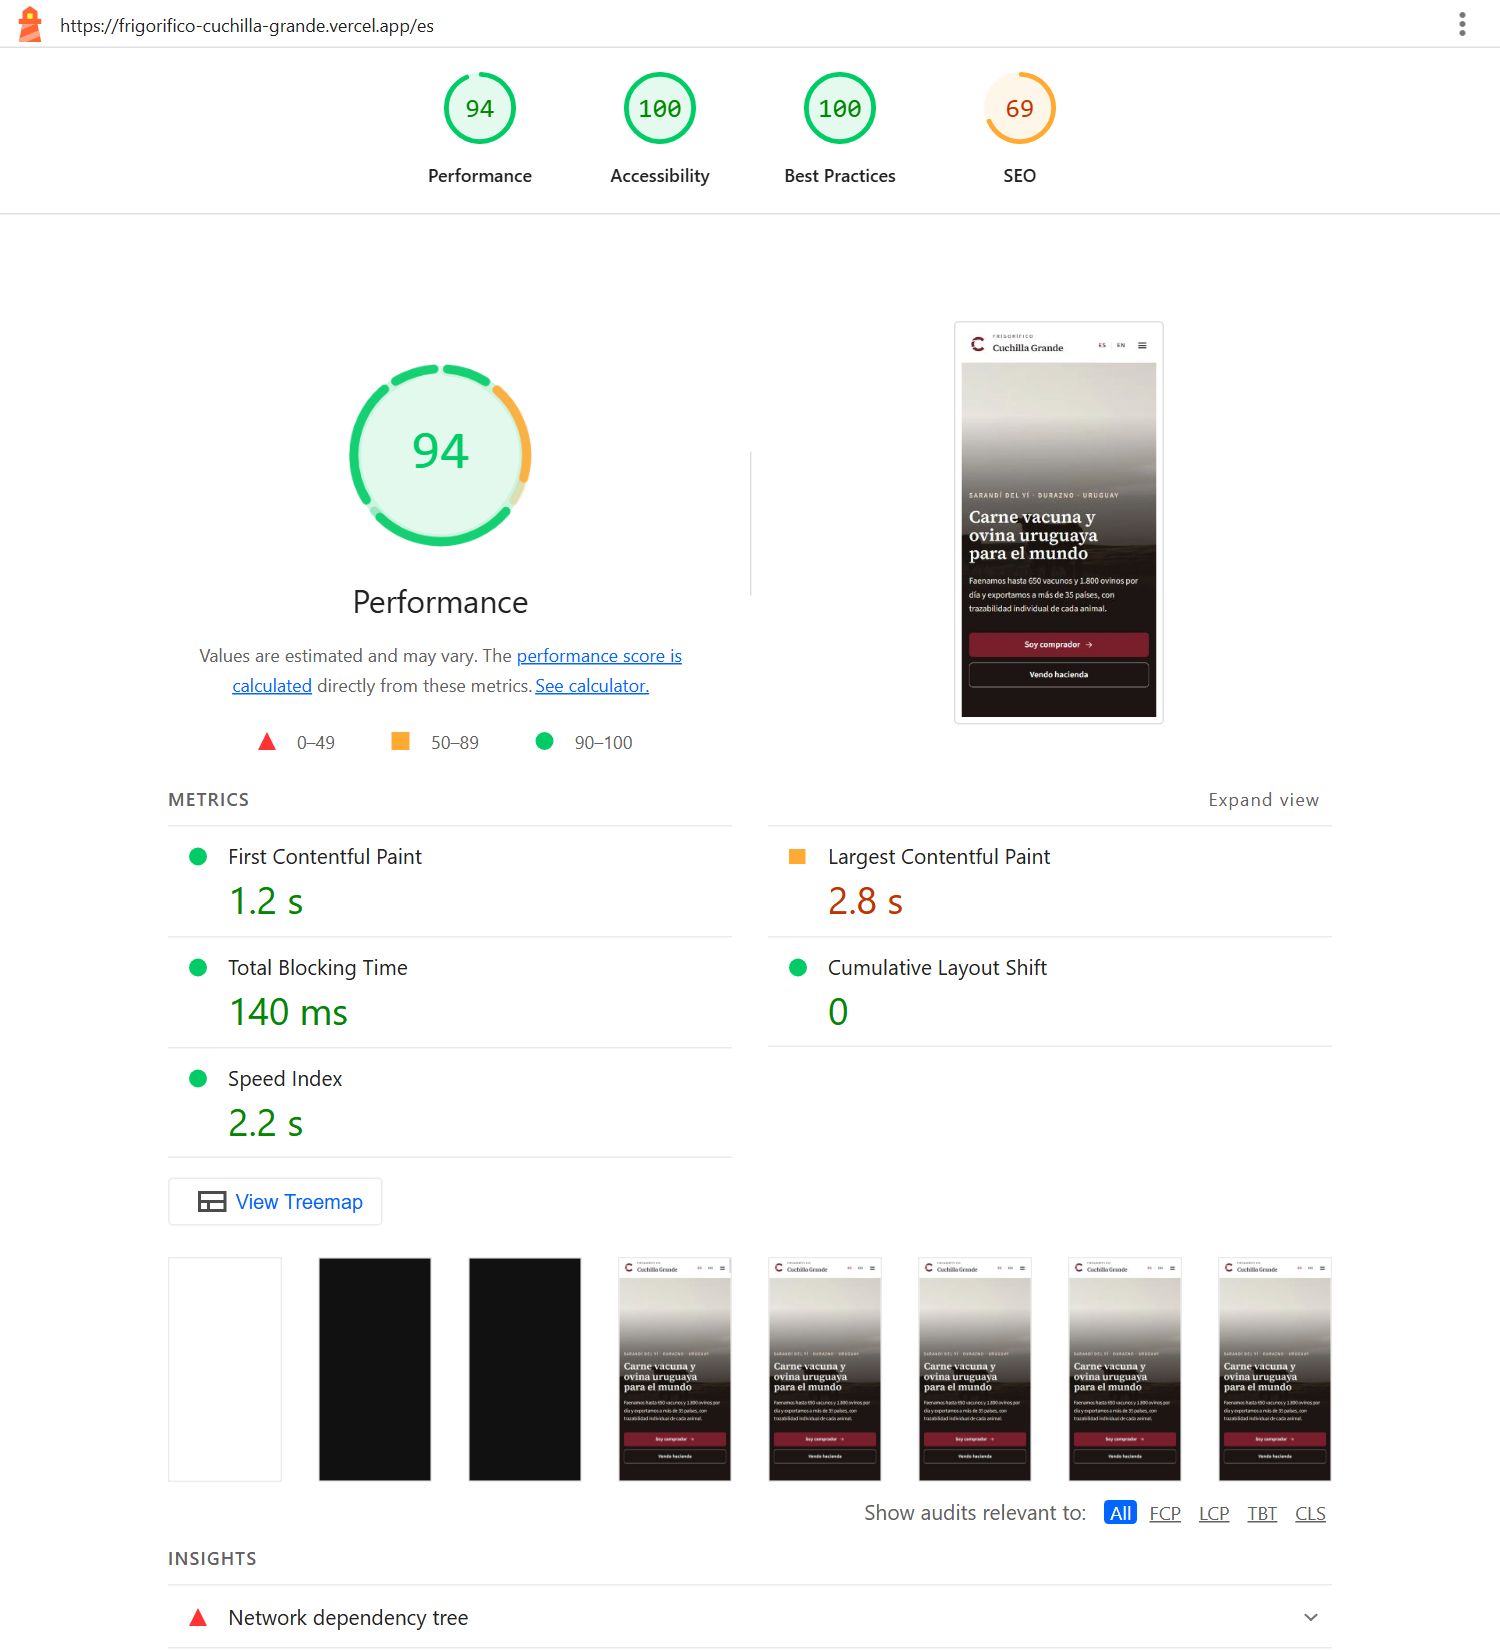
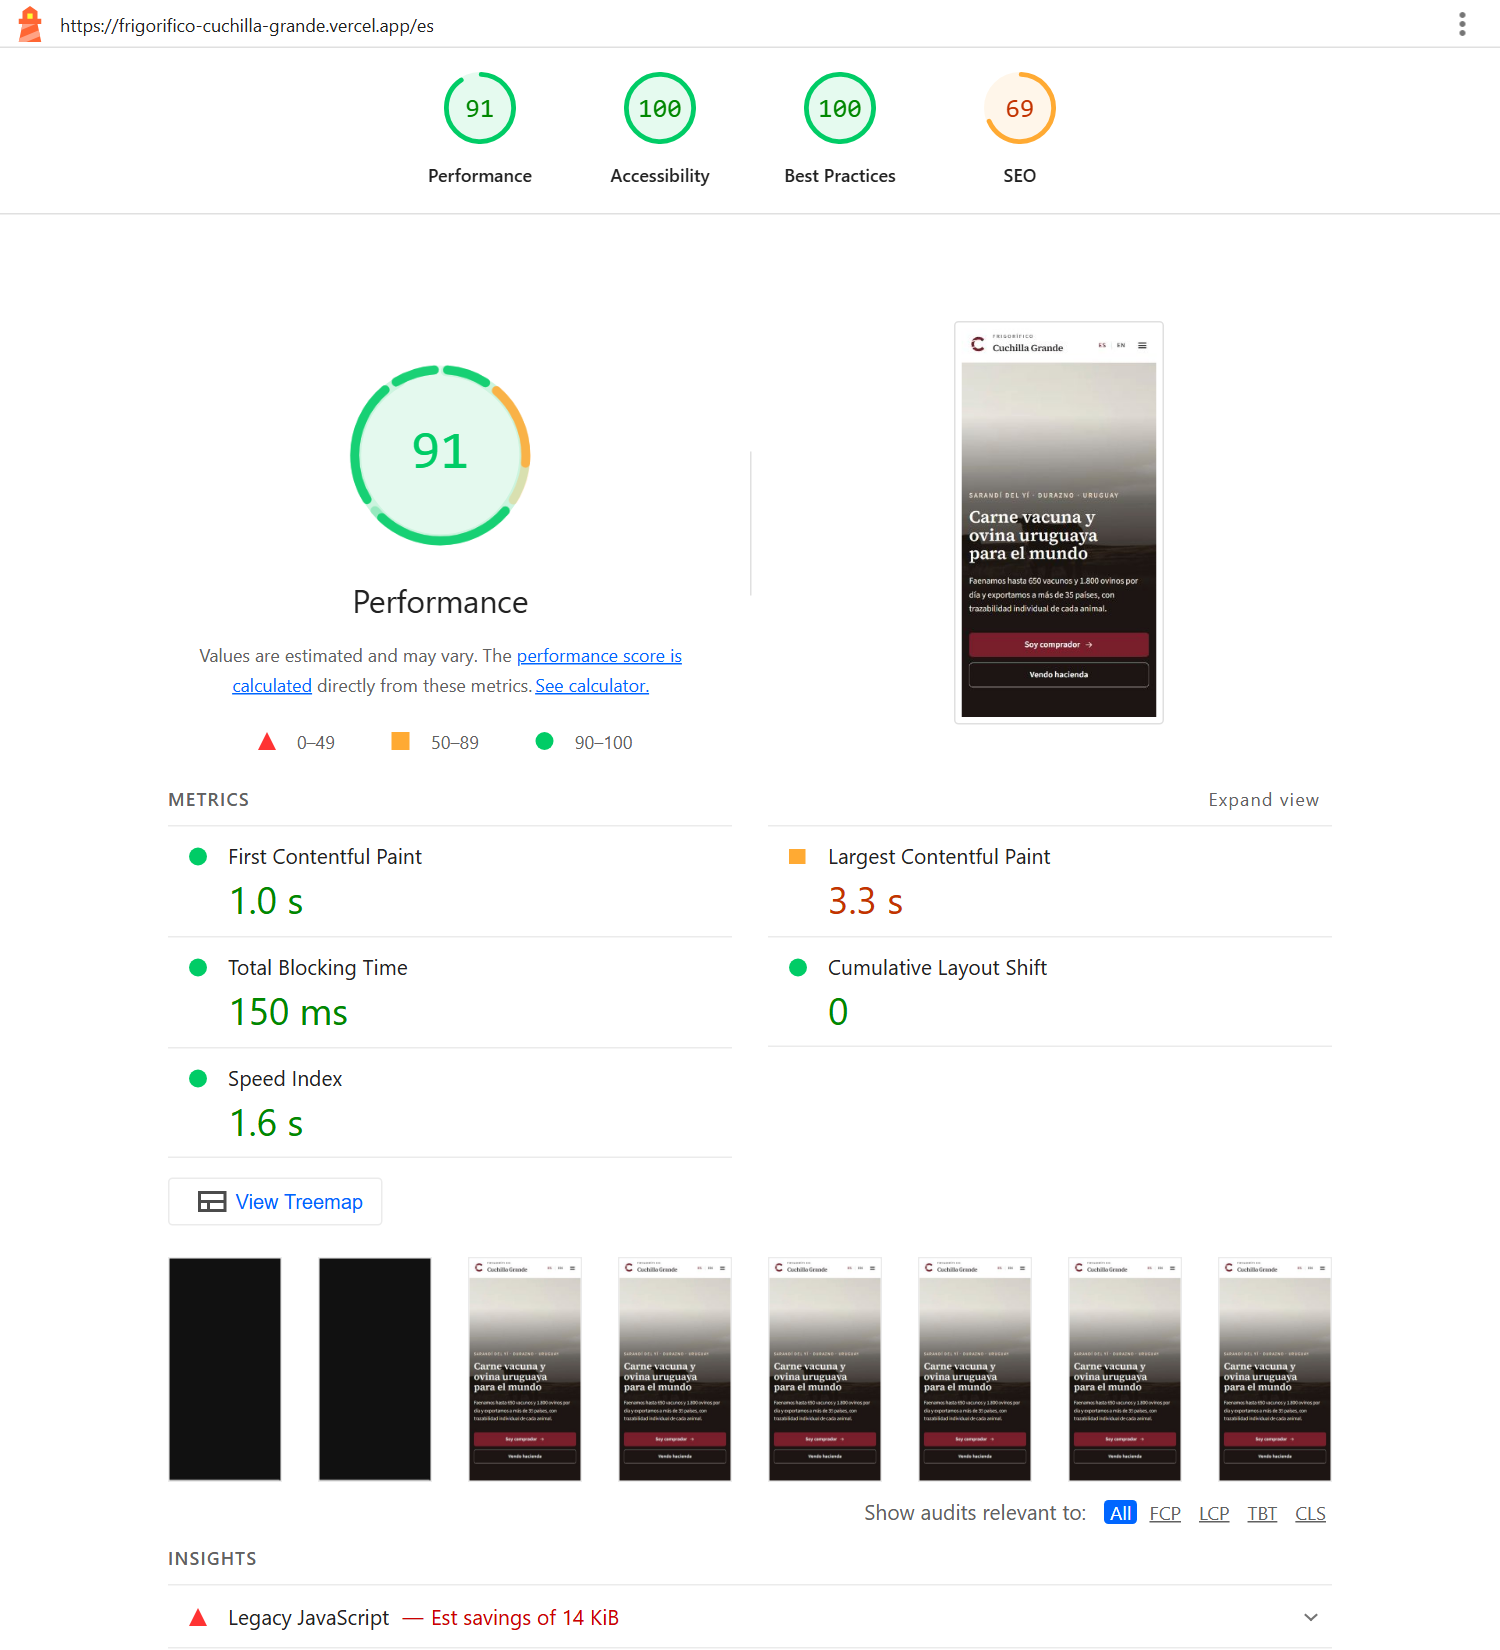
Cierre: métricas finales en QA.md y README, capturas de Lighthouse finales, imagen de social preview y carrera corregida en qa:contact
Claude-Session: https://claude.ai/code/session_01XiVCzhLQzkiLMyXHaZQP7F

diff --git a/scripts/qa-contact.ts b/scripts/qa-contact.ts
@@ -157,8 +157,11 @@ async function tabsAndUrl(browser: Browser, locale: L) {
 async function prefill(browser: Browser, locale: L) {
   const page = await browser.newPage({ viewport: { width: 1440, height: 900 } });
   await page.goto(`${base}${catalogPaths[locale]}`, { waitUntil: "load" });
-  await page.waitForSelector("[data-quote-link]");
-  const link = page.locator("[data-quote-link]").first();
+  // El HTML estático trae el catálogo vacuno; con ?species=lamb se espera a que lo reemplace el
+  // filtrado, si no se lee un link y se hace clic en otro.
+  const prefix = locale === "es" ? "beef_" : "lamb_";
+  await page.waitForSelector(`[data-quote-link^="${prefix}"]`);
+  const link = page.locator(`[data-quote-link^="${prefix}"]`).first();
   const cut = (await link.getAttribute("data-quote-link"))!;
   const href = await link.getAttribute("href");
   check(`${locale} catálogo: "Pedir cotización" → /contacto con id neutro`, href === `${paths[locale]}?tab=quote&cut=${cut}`, String(href));

diff --git a/docs/QA.md b/docs/QA.md
@@ -1,7 +1,7 @@
 # QA — Frigorífico Cuchilla Grande (fase 6)
 
 Informe de calidad del sitio de demostración: SEO técnico, accesibilidad, performance, seguridad,
-operación y QA cruzado ES/EN. Medido el **16 de octubre de 2026** contra producción
+operación y QA cruzado ES/EN. Medido el **16 de octubre de 2026** (fases 6 y 7) contra producción
 (https://frigorifico-cuchilla-grande.vercel.app) salvo donde se indica.
 
 Todo se puede repetir con los scripts del repo (ver `CLAUDE.md`, sección Comandos).
@@ -10,7 +10,7 @@ Todo se puede repetir con los scripts del repo (ver `CLAUDE.md`, sección Comand
 
 | Área | Resultado |
 |---|---|
-| Lighthouse móvil (12 mediciones) | Performance 93–98 · Accesibilidad 100 · Buenas prácticas 100 · SEO 66–69 por el noindex buscado; 100 en modo indexable |
+| Lighthouse móvil (12 mediciones) | Performance 91–98 · Accesibilidad 100 · Buenas prácticas 100 · SEO 66–69 por el noindex buscado; 100 en modo indexable |
 | axe (100 combinaciones de página/estado × idioma × ancho) | 0 violaciones serias o críticas, 0 moderadas o menores |
 | Recorrido por teclado | 62/62 verificaciones (formularios, diagrama, mapa, pestañas, menú, salto al contenido) |
 | SEO técnico (`check:seo`) | 106 URLs del sitemap · 212 imágenes OG/Twitter · JSON-LD válido en todas |
@@ -161,22 +161,23 @@ mínimo es 3:1.
 
 ### Lighthouse móvil — producción (noindex)
 
-Lighthouse 13.5 con la simulación móvil por defecto (Moto G Power, 4G lenta, CPU ×4).
+Lighthouse 13.5 con la simulación móvil por defecto (Moto G Power, 4G lenta, CPU ×4). Medición final del
+16 de octubre de 2026 (cierre de la fase 7), después de los ajustes de LCP.
 
 | Página | Idioma | Performance | Accesibilidad | Buenas prácticas | SEO | LCP | CLS | TBT | JS (KB) |
 |---|---|---|---|---|---|---|---|---|---|
-| Home | es | 94 | 100 | 100 | 69 | 2,8 s | 0 | 140 ms | 194 |
-| Home | en | 93 | 100 | 100 | 69 | 3,2 s | 0 | 90 ms | 194 |
-| Catálogo | es | 96 | 100 | 100 | 66 | 2,5 s | 0 | 120 ms | 187 |
-| Catálogo | en | 97 | 100 | 100 | 66 | 2,5 s | 0 | 100 ms | 187 |
-| Detalle de corte | es | 94 | 100 | 100 | 69 | 2,9 s | 0 | 130 ms | 186 |
-| Detalle de corte | en | 94 | 100 | 100 | 69 | 2,9 s | 0 | 120 ms | 187 |
-| Mercados | es | 95 | 100 | 100 | 66 | 2,7 s | 0 | 160 ms | 172 |
-| Mercados | en | 95 | 100 | 100 | 66 | 2,5 s | 0 | 160 ms | 172 |
-| Productores | es | 95 | 100 | 100 | 66 | 2,4 s | 0 | 190 ms | 178 |
-| Productores | en | 95 | 100 | 100 | 66 | 2,4 s | 0 | 200 ms | 178 |
-| Contacto | es | 98 | 100 | 100 | 66 | 2,3 s | 0 | 90 ms | 178 |
-| Contacto | en | 98 | 100 | 100 | 66 | 2,3 s | 0 | 80 ms | 178 |
+| Home | es | 91 | 100 | 100 | 69 | 3,3 s | 0 | 150 ms | 194 |
+| Home | en | 92 | 100 | 100 | 69 | 3,3 s | 0 | 110 ms | 194 |
+| Catálogo | es | 97 | 100 | 100 | 66 | 2,3 s | 0 | 120 ms | 187 |
+| Catálogo | en | 98 | 100 | 100 | 66 | 2,3 s | 0 | 100 ms | 187 |
+| Detalle de corte | es | 95 | 100 | 100 | 69 | 2,7 s | 0 | 140 ms | 187 |
+| Detalle de corte | en | 95 | 100 | 100 | 69 | 2,8 s | 0 | 140 ms | 187 |
+| Mercados | es | 96 | 100 | 100 | 66 | 2,6 s | 0 | 120 ms | 172 |
+| Mercados | en | 97 | 100 | 100 | 66 | 2,4 s | 0 | 110 ms | 172 |
+| Productores | es | 97 | 100 | 100 | 66 | 2,2 s | 0 | 140 ms | 178 |
+| Productores | en | 98 | 100 | 100 | 66 | 2,2 s | 0 | 140 ms | 178 |
+| Contacto | es | 98 | 100 | 100 | 66 | 2,2 s | 0 | 90 ms | 178 |
+| Contacto | en | 98 | 100 | 100 | 66 | 2,3 s | 0 | 90 ms | 178 |
 
 **SEO** marca solo `is-crawlable` ("la página está bloqueada para la indexación"): es el noindex
 buscado. La diferencia entre 66 y 69 es el peso de esa auditoría según las demás que aplican.
@@ -260,7 +261,10 @@ Lo que no se pudo bajar más, y por qué:
 - Hay ruido entre corridas: el mismo detalle de corte midió 2,5 s en ES y 2,8 s en EN en la misma
   tanda.
 
-Resultado de la última medición (tabla de arriba): ver el resumen al final de esta sección.
+Resultado de la medición final (tabla de arriba): LCP ≤ 2,5 s en catálogo, productores, contacto y
+mercados en inglés; entre 2,6 y 2,8 s en mercados (ES) y el detalle de corte; 3,3 s en la home. La
+home varía entre corridas (2,7 a 3,3 s en tres mediciones del mismo día) y su LCP es la foto del hero,
+que no se puede precargar sin el efecto descripto arriba.
 
 ## Seguridad
 

diff --git a/README.md b/README.md
@@ -61,7 +61,7 @@ Medido en producción (detalle completo en [docs/QA.md](docs/QA.md)):
 
 | Área | Resultado |
 |---|---|
-| Lighthouse móvil (6 páginas × ES/EN) | Performance 92–98 · Accesibilidad 100 · Buenas prácticas 100 · SEO 100 en modo indexable |
+| Lighthouse móvil (6 páginas × ES/EN) | Performance 91–98 · Accesibilidad 100 · Buenas prácticas 100 · SEO 100 en modo indexable |
 | axe (100 combinaciones de página, estado, idioma y ancho) | 0 violaciones |
 | Recorrido por teclado | 62/62 verificaciones |
 | SEO técnico | 106 URLs con canonical, hreflang recíproco, Open Graph y JSON-LD válidos |
@@ -198,7 +198,7 @@ Measured in production (full report in Spanish: [docs/QA.md](docs/QA.md)):
 
 | Area | Result |
 |---|---|
-| Lighthouse mobile (6 pages × ES/EN) | Performance 92–98 · Accessibility 100 · Best practices 100 · SEO 100 in indexable mode |
+| Lighthouse mobile (6 pages × ES/EN) | Performance 91–98 · Accessibility 100 · Best practices 100 · SEO 100 in indexable mode |
 | axe (100 page/state/language/width combinations) | 0 violations |
 | Keyboard walkthrough | 62/62 checks |
 | Technical SEO | 106 URLs with valid canonical, reciprocal hreflang, Open Graph and JSON-LD |
